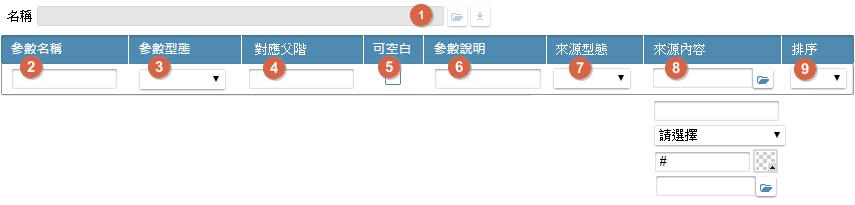
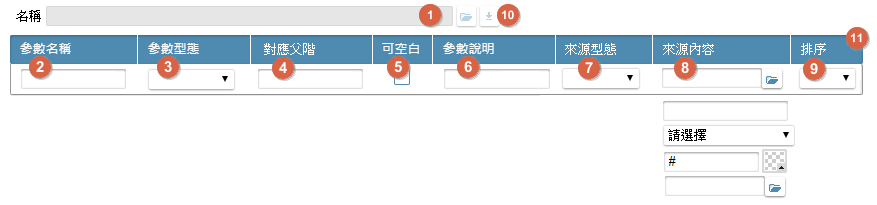
調整邏輯函數表格

diff --git a/8.10.2/IDE/Specification/RulesDialog/README.md b/8.10.2/IDE/Specification/RulesDialog/README.md
@@ -431,6 +431,13 @@
 
 ## <p id="ruledialog19">操作邏輯函數表格通則</p>
 ![pic][image_ruleDialog6]
+* `(1)函數名稱`
+    * 用途說明
+    * 規格說明
+        * 參照 [挑選函數通則][link_ruledialog16], 限定: 依下列引用位置說明, 進行函數挑選, 回傳: 函數名稱, 並呼叫`(10)載入鍵`
+            * [元件加註_嵌入物件/圖表][link_Chart]: 表單用圖表的邏輯函數
+            * [按鍵加註_邏輯函數][link_BALogicalFunction]: 非圖表用邏輯函數
+            * [報表元件加註/圖表][link_ReportObjectAnnotation]: 報表用圖表的邏輯函數
 * `(2)參數名稱`
     * 用途說明
     * 規格說明
@@ -502,6 +509,12 @@
     * 用途說明
     * 規格說明
         * 當有本欄位, 選項 升冪/降冪; 預設 升冪; `(6)來源型態`=欄位排序, 致能, 否則清空除能
+* `(10)載入鍵`
+    * 用途說明
+    * 規格說明
+        * 依`(1)函數名稱`至[邏輯函數][link_LogicalFunction]中, 取得參數並依參數順序載入`(11)參數表格`中
+        * 依`(1)函數名稱`及`(2)參數名稱`至[邏輯函數][link_LogicalFunction]判斷, 不存在`(11)參數表格`中, 則新增
+        * 依`(1)函數名稱`及`(2)參數名稱`至[邏輯函數][link_LogicalFunction]判斷, 於`(11)參數表格`中存在無效參數, 則刪除
 
 <!-- 圖示 -->
 [image_ruleDialog1]:attachment/ruleDialog1.png
@@ -538,4 +551,8 @@
 [link_ruledialog13]:#ruledialog13 "挑選表單按鍵通則"
 [link_ruledialog9]:#ruledialog9 "挑選參數通則"
 [link_ruledialog18]:#ruledialog18 "操作運算式通則"
+[link_ruledialog16]:#ruledialog16 "操作函數通則"
 [link_SystemFunction]:../SystemFunction/README "系統函數"
+[link_Chart]:../OADisplayEmbed/Chart "元件加註_嵌入物件/圖表"
+[link_ReportObjectAnnotation]:../ReportObjectAnnotation/README "報表元件加註"
+[link_BALogicalFunction]:../BALogicalFunction/README "按鍵加註_邏輯函數"
